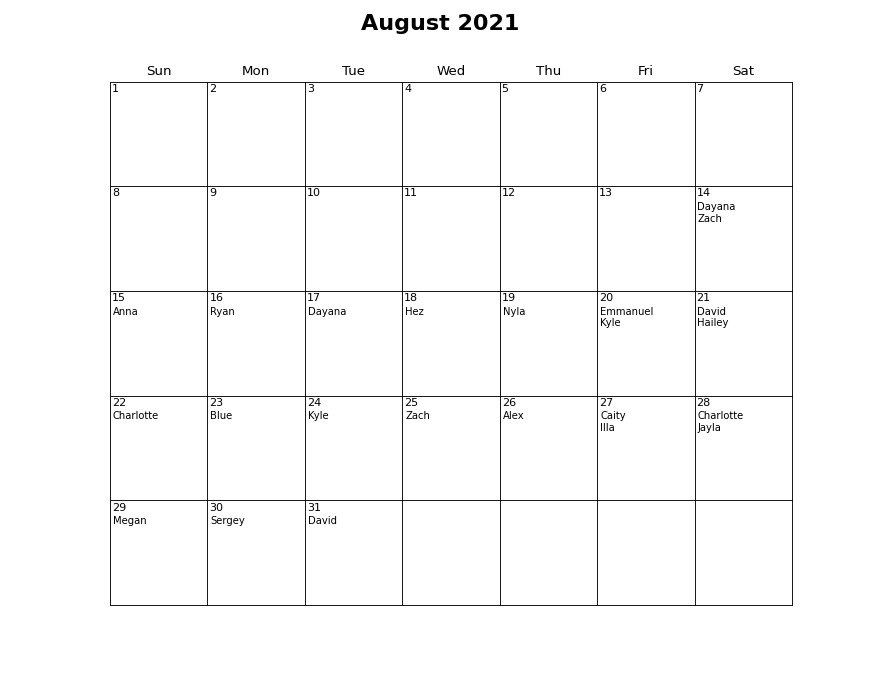
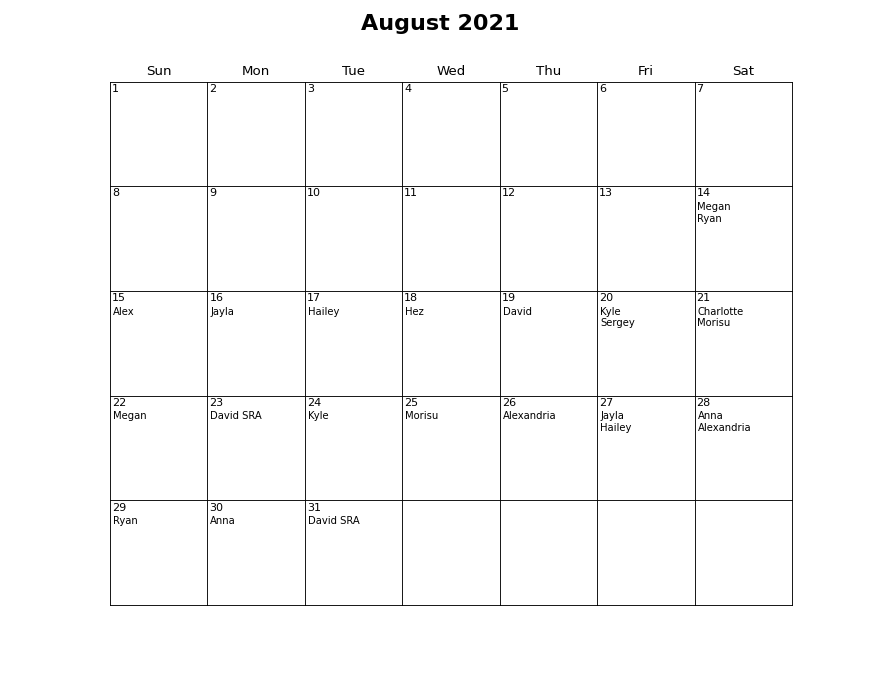
V1.3

diff --git a/main.py b/main.py
@@ -8,6 +8,7 @@ import calendar
 import pandas as pd
 import sys
 import random
+import os
 
 from datetime import datetime
 from RA import ResidentAdviser
@@ -314,3 +315,16 @@ calendar_create.show()
 
 calendar_save_path = MONTH_STRING + "_" + str(YEAR) + "_duty_schedule"
 calendar_create.save("Schedule/" + calendar_save_path)
+
+# update history
+for index, RA in enumerate(RA_DETAILS.values()):
+    history_master.loc[index, "Weekdays Total"] = RA.scheduled_weekdays
+    history_master.loc[index, "Weekends Total"] = RA.scheduled_weekends
+
+    # reset
+    # history_master.loc[index, "Weekdays Total"] = 0
+    # history_master.loc[index, "Weekends Total"] = 0
+
+# remove old history file and save new history file for future additions
+os.remove("History/CHRNE_NHW_HARP_hist.xlsx")
+history_master.to_excel('History/CHRNE_NHW_HARP_hist.xlsx', index=False)

diff --git a/mplcal.py b/mplcal.py
@@ -1,6 +1,6 @@
 # https://github.com/meta4/mplcal
 # Copyright (c) 2020, Peter Wilson
-#
+
 # All rights reserved.
 
 # import statements

diff --git a/RA.py b/RA.py
@@ -1,6 +1,6 @@
 # RA Duty Scheduler
 # Copyright (c) 2021, David Peterson
-#
+
 # All rights reserved.
 
 
